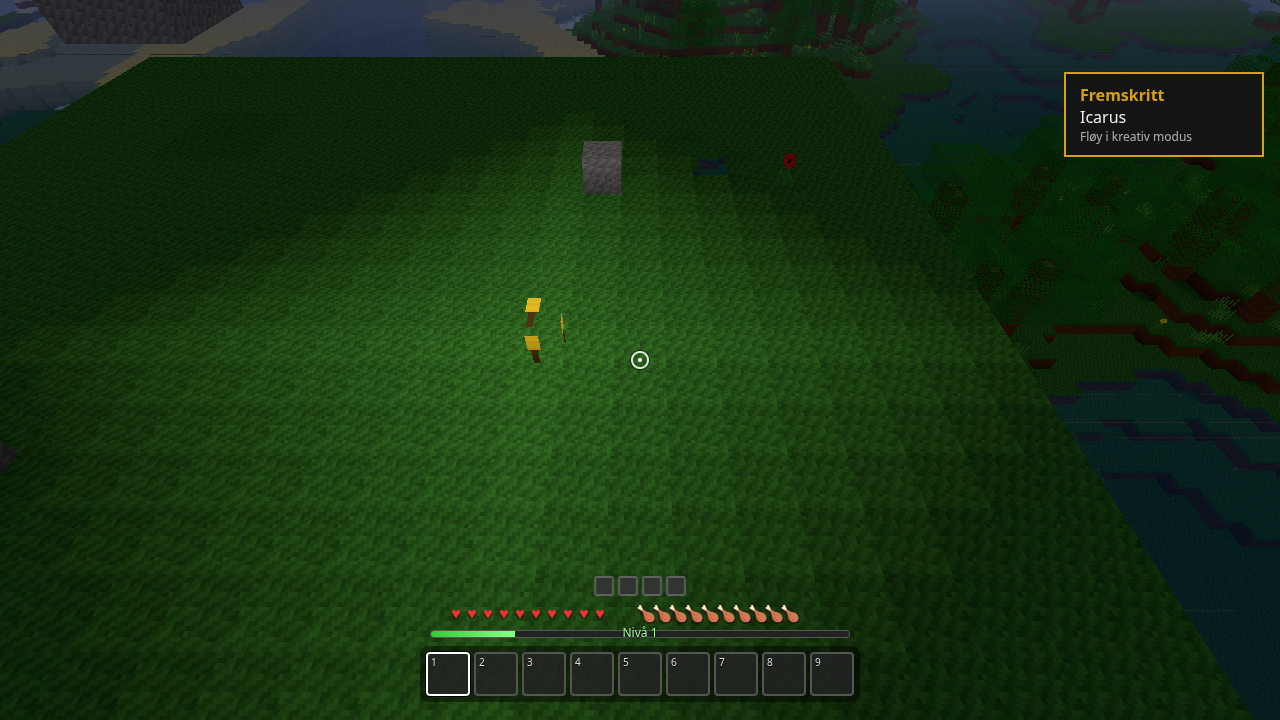
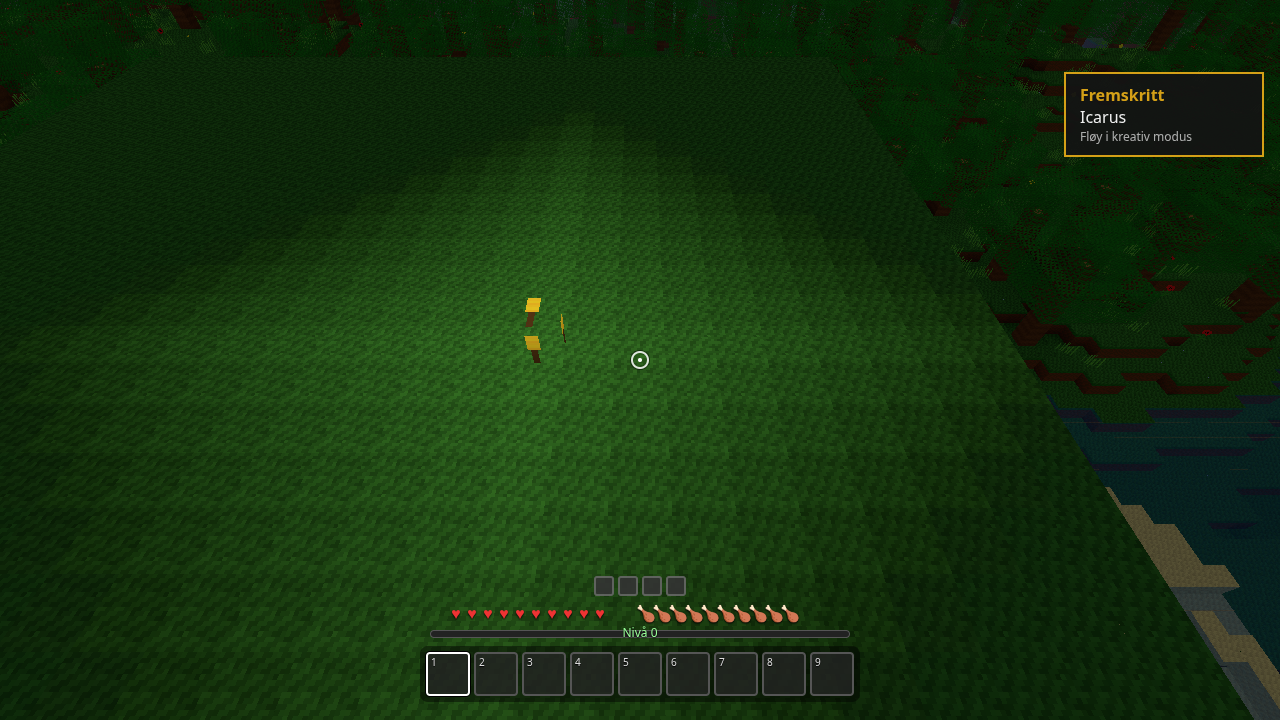
it20: docs — torch double-image diagnosis (open)

diff --git a/docs/ITERATIONS.md b/docs/ITERATIONS.md
@@ -32,7 +32,7 @@ Baseline først (core 56/56 med ekte tastatur/mus i Chromium), deretter åpne pu
 - Mobber går fortsatt rett inn i ild og lava (de unngår dem ikke når de finner vei)
 - Merkeboksen rundt stige og fakkel er fortsatt en hel blokk
 - Sand og grus faller fortsatt umiddelbart, og det finnes ikke dobbelt høyt gress
-- I BL1-skjermbildet står det noe som ligner en fakkel nr. 2 like ved den plasserte fakkelen (trolig en fakkel som ligger som ting; ikke reprodusert hver gang). Bør undersøkes
+- Fakler tegnes som en gjennomsiktig hel kube med fakkel-teksturen på hver side. Sett ovenfra/skrått ser det derfor ut som to fakler (for- og baksida), se it20-10. I MC er fakkelen en tynn pinne. Bør fikses neste runde (mesher + test)
 - Parallellkjøring av flere Chrome-tester gir tidsfeil (FS3, L1, D1, X11). Sluttkjøringene gjøres derfor én og én
 
 ### Media
